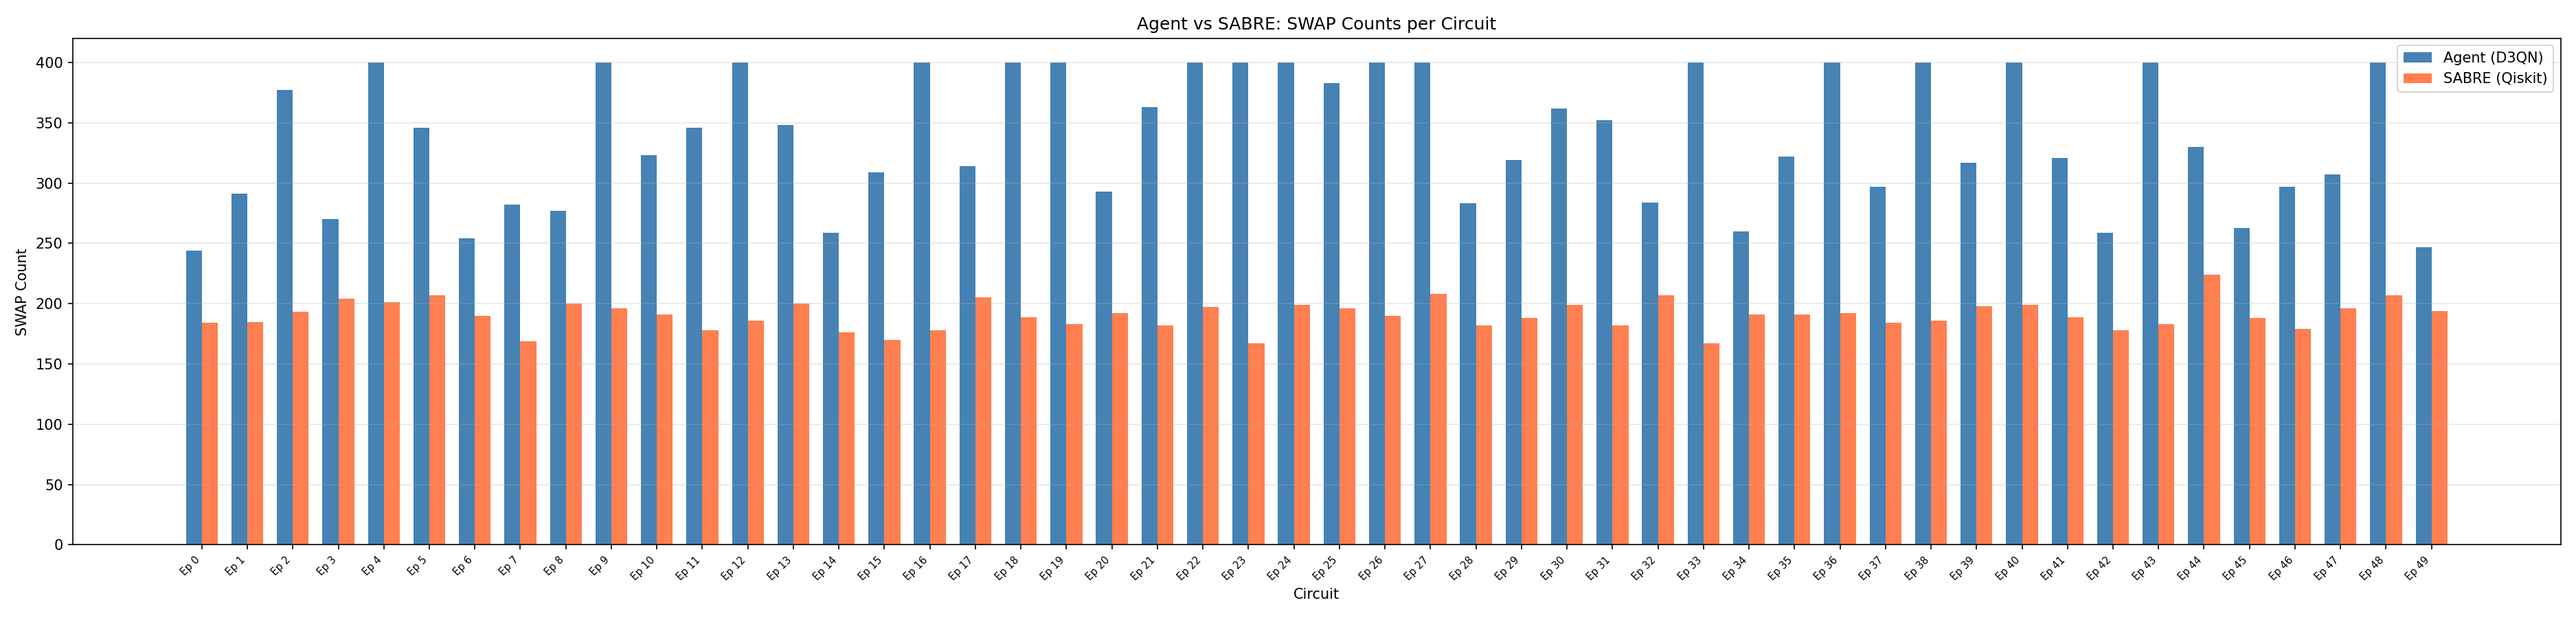
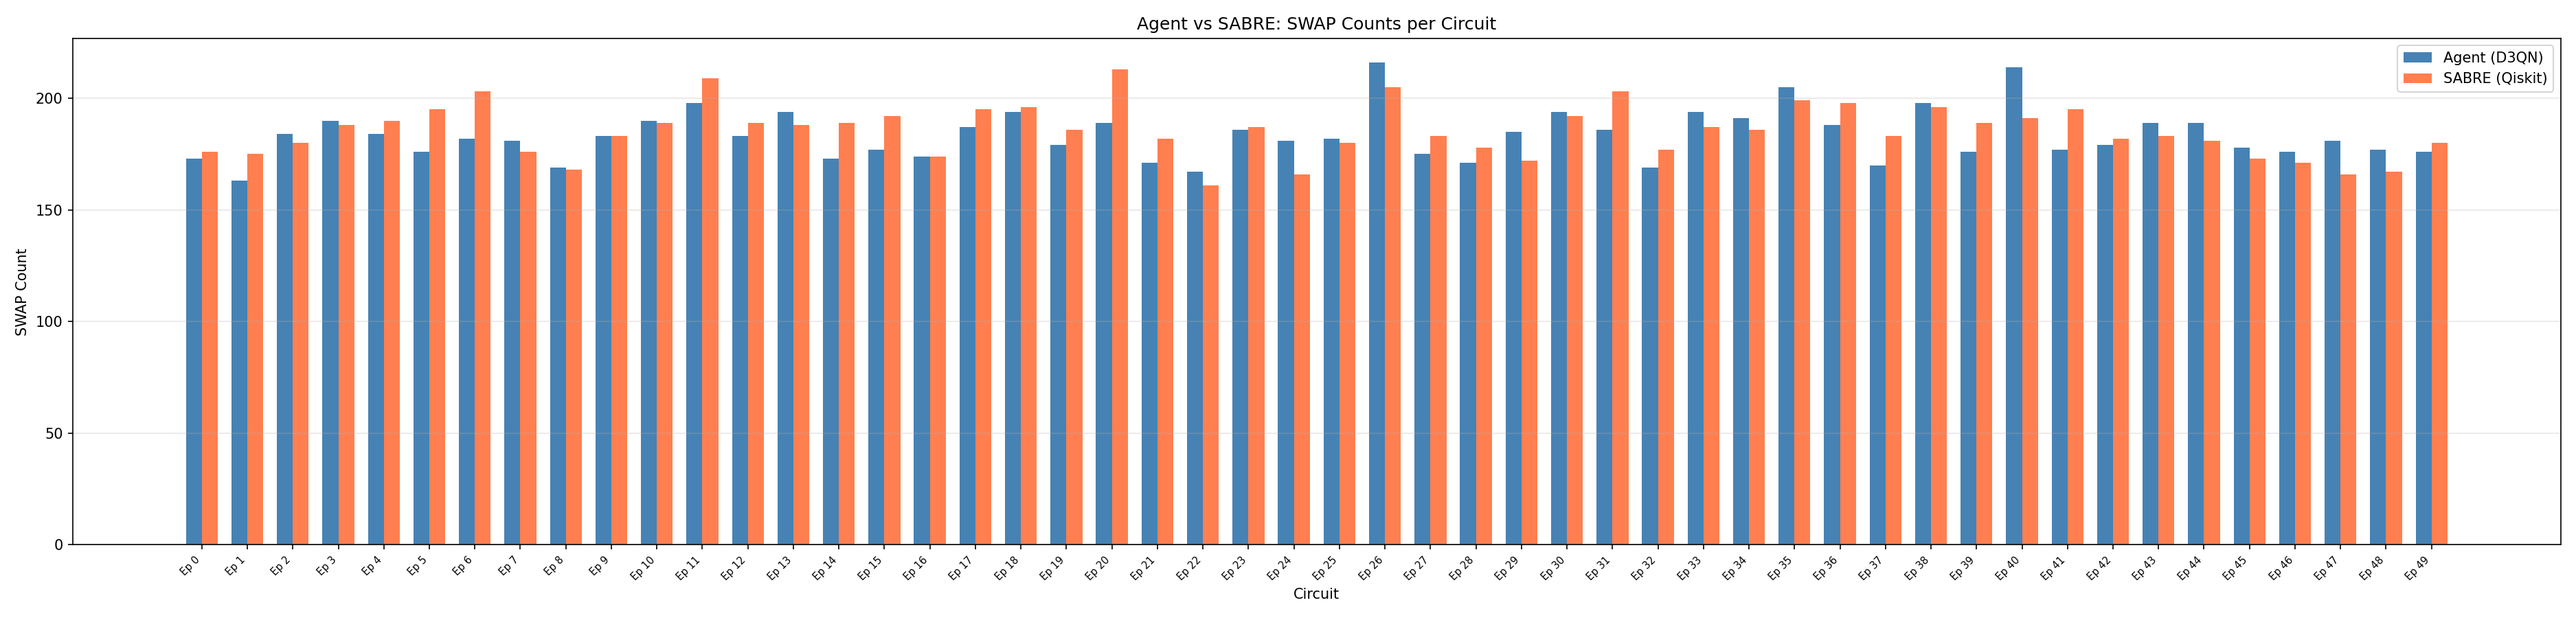
fix: use best checkpoint eval comparisons in README
Replace eval_comparison PNGs with those from best checkpoints
(ep63k for run_019, ep52.5k for run_023) instead of final episode.
The final checkpoint often shows worse performance than peak.

Changed region(s): [[0.0624, 0.0933, 0.9672, 0.56], [0.8112, 0.0933, 0.8424, 0.1867], [0.0, 0.6844, 0.0312, 0.7156]]

diff --git a/README.md b/README.md
@@ -87,7 +87,7 @@ Run 023 (curriculum + cosine LR) achieved ratio **0.994** in only **60k episodes
 
 <img src="assets/eval_comparison_run019.png" width="700" alt="Agent vs SABRE eval comparison">
 
-*Final evaluation: per-circuit SWAP count comparison between agent (blue) and SABRE (orange)*
+*Best checkpoint evaluation (ep63k, ratio 0.991): per-circuit SWAP count comparison between agent (blue) and SABRE (orange)*
 
 </div>
 
